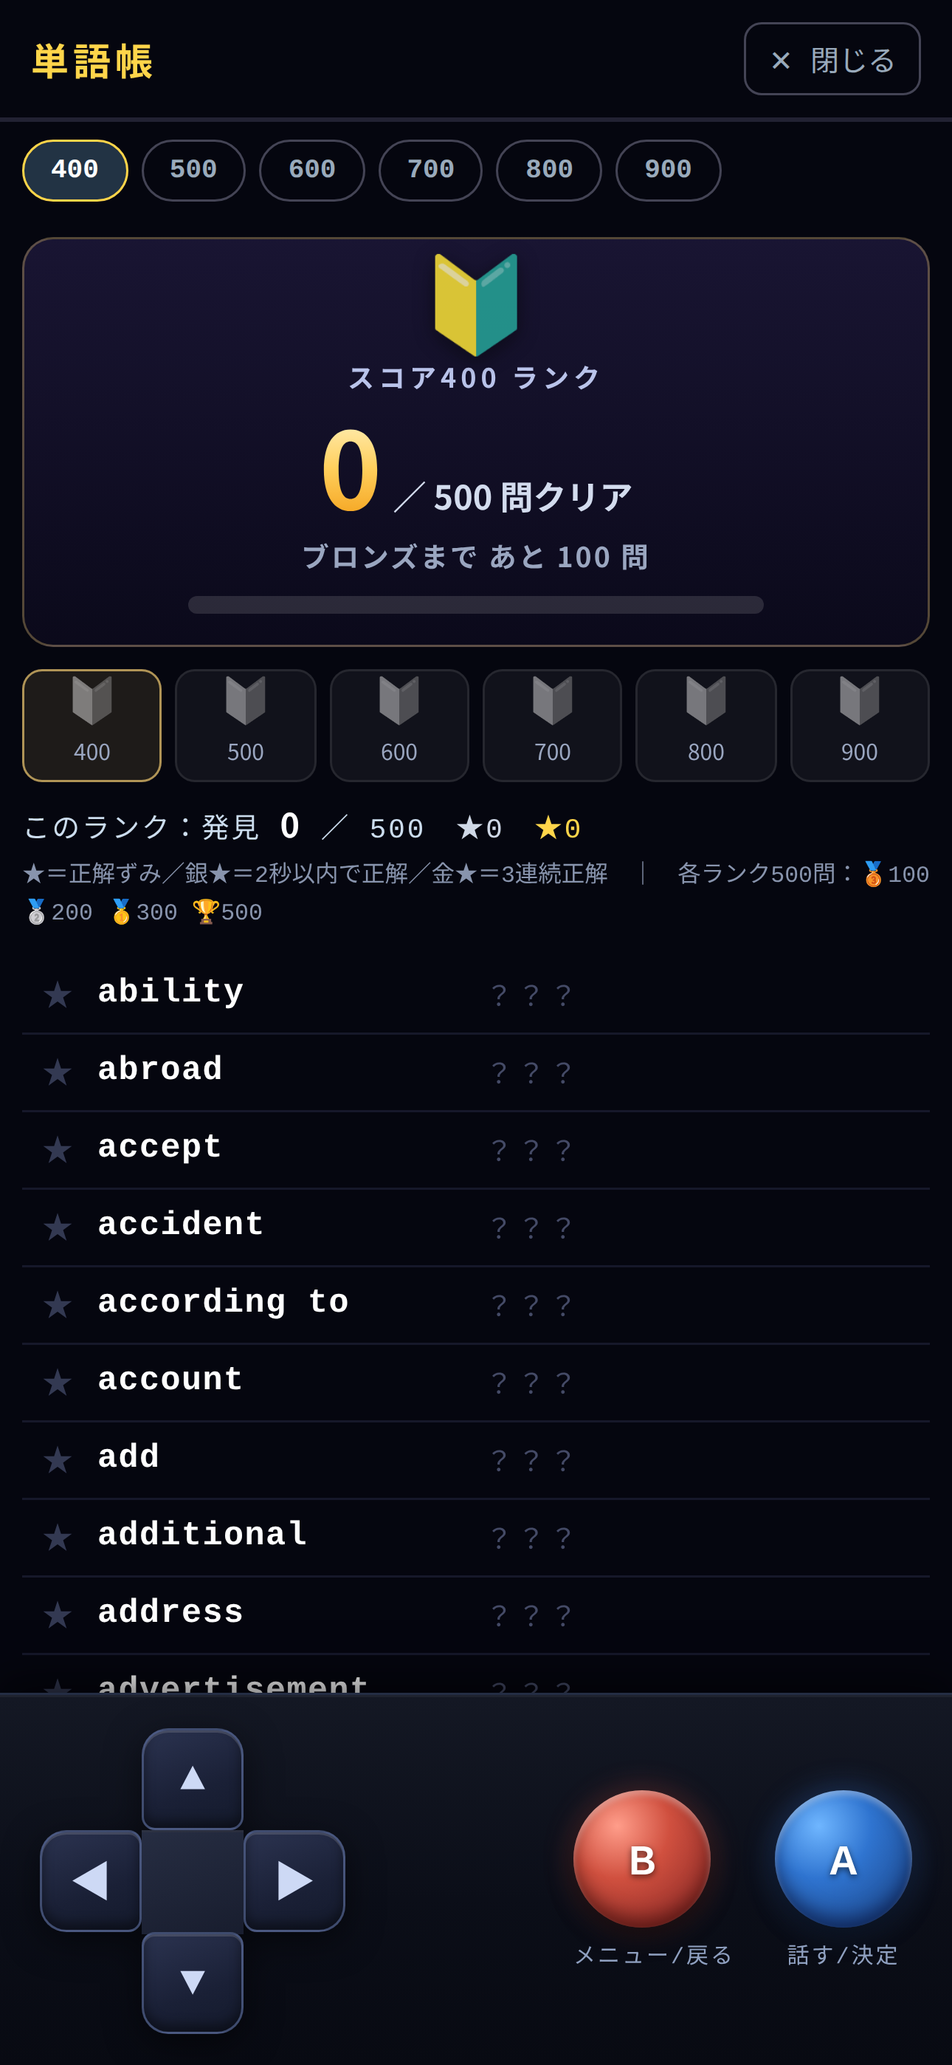
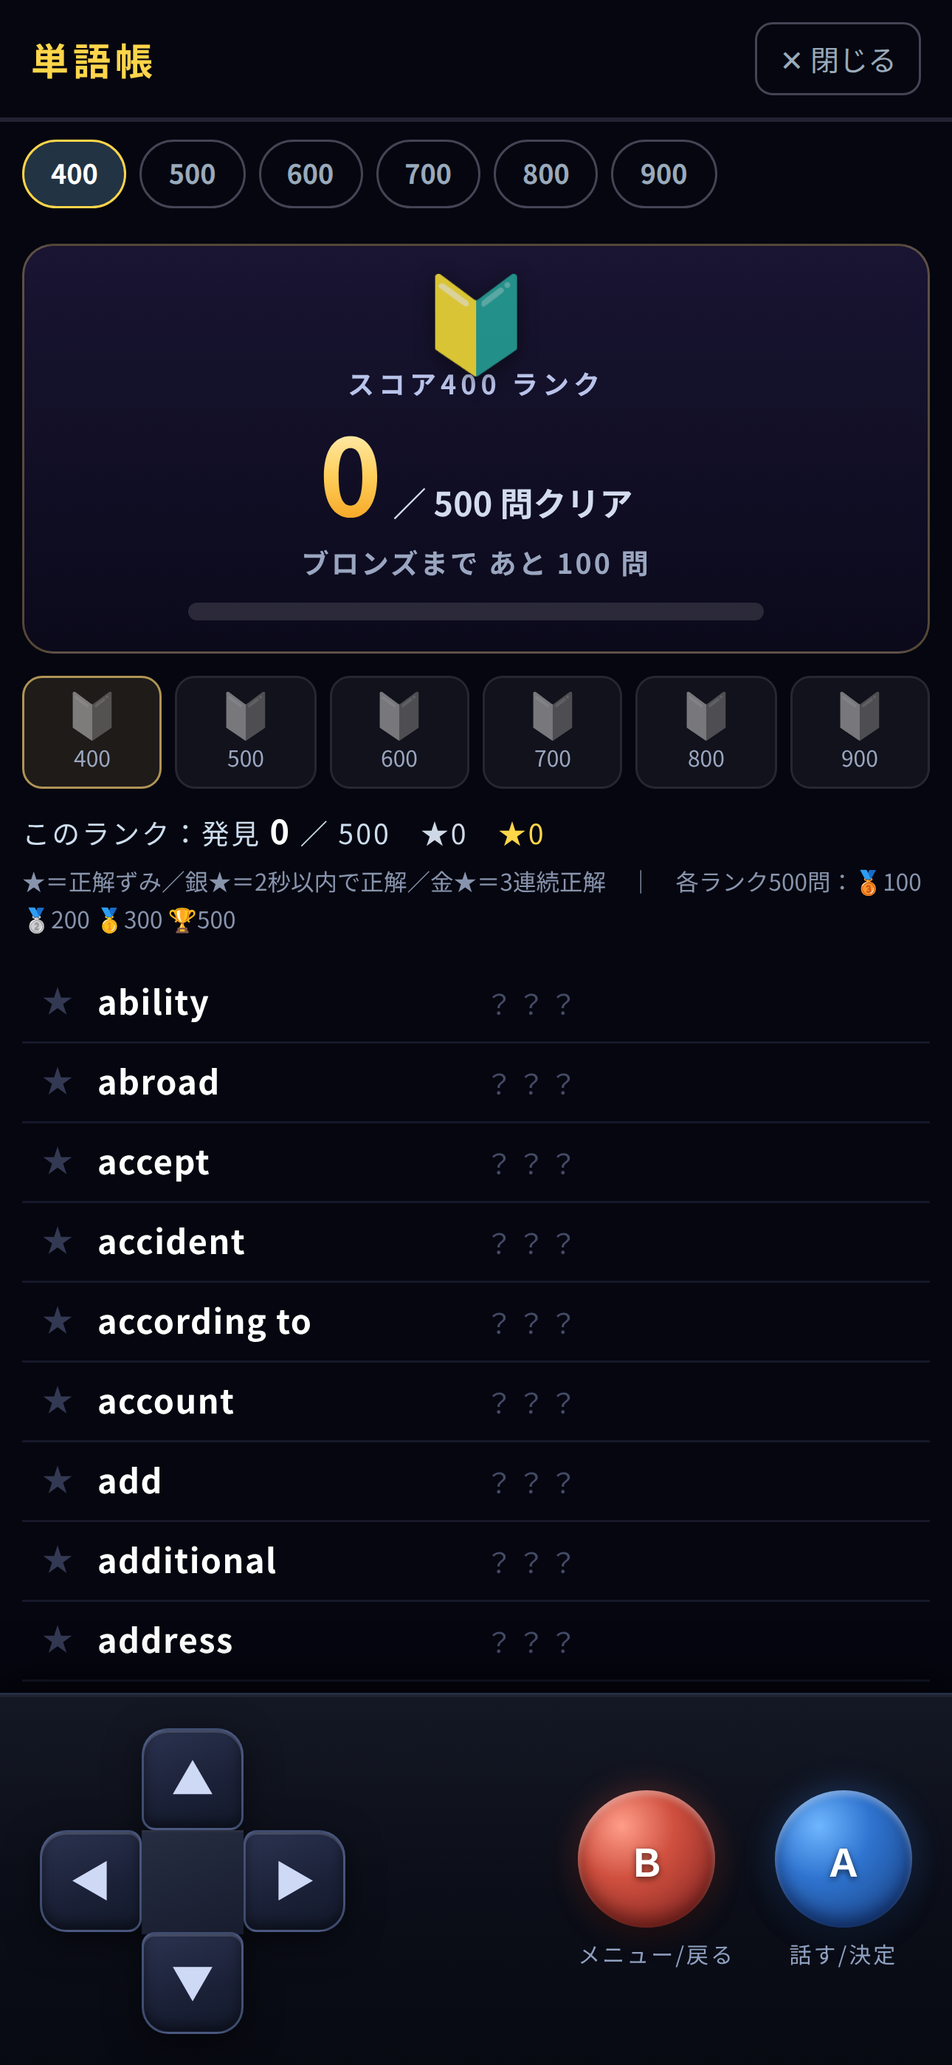
広告と記録の修正、iOS先行リリースの手順書
広告
- 全画面広告を第3・5・7・9・11戦の前に（＝第2・4・6・8・10戦を終えた直後）。
  序盤2戦は広告なしで通す。実測 1:－ 2:－ 3:広告 4:－ 5:広告 …
- 画面下に出しっぱなしのバナーを追加。操作ボタンに重ならないよう、
  読み込まれた実寸ぶんだけ #app の下に余白を作る（--wq-banner）。
  高さは端末と広告で変わるので決め打ちせず SizeChanged を待つ。
  実測 ボタンA下端820 / バナー上端882 で重なりなし
- Web版は同じ高さの枠を「広告（デモ）」として描き、레이レイアウトへの影響を
  プレビューで確かめられるようにした
- プレミアムになったらバナーを消す

記録の表示（学生モードで壊れていた）
- 称号の欄と単語帳のタブを、出題の6段階ではなく語彙のまとまりで作る。
  学生版は1つの段階に複数学年を混ぜているため、段階ごとに数えると
  同じ学年名の欄が並び（中2/中2/中3/中3/中3/中3）、数も中身とずれていた
- 修正後 中3モード：中1 3/600 ／ 中2 6/600 ／ 中3 9/645
        高2モード：中3 ／ 高校基礎 ／ 大学入試
        TOEIC は従来どおり 400〜900

その他
- ストア用スクリーンショットを新UIで撮り直し、学生モードとサブスク画面を追加（7枚）
- docs/IOS_RELEASE.md を追加。iOS先行の手順一式

★未設定：バナーのユニットIDもテスト用。インタースティシャルと合わせて2つ必要

Claude-Session: https://claude.ai/code/session_01FnVhb4STeLenZzKBowdTQv

diff --git a/party/js/pnative.js b/party/js/pnative.js
@@ -18,6 +18,10 @@
     //   差し替えないまま testing:false にすると広告収益が発生しない。
     interstitialAndroid: "ca-app-pub-3940256099942544/1033173712", // Google テスト用
     interstitialIos:     "ca-app-pub-3940256099942544/4411468910", // Google テスト用
+    // ★★ 未設定：画面下に出しっぱなしにするバナーのユニットID。
+    //   これも「バナー」という別の広告枠なので、上の2つとは別に作る必要がある
+    bannerAndroid: "ca-app-pub-3940256099942544/6300978111", // Google テスト用
+    bannerIos:     "ca-app-pub-3940256099942544/2934735716", // Google テスト用
     // ★ アプリ内課金：プレミアム（月額¥500・自動更新サブスク）
     //   両ストアで同じIDで登録すること。Google Play では基本プラン（月額）を
     //   この商品の下に作る
@@ -35,6 +39,7 @@
   var platform = cap.getPlatform ? cap.getPlatform() : "android";
   var rewardedId = platform === "ios" ? CONFIG.rewardedIos : CONFIG.rewardedAndroid;
   var interstitialId = platform === "ios" ? CONFIG.interstitialIos : CONFIG.interstitialAndroid;
+  var bannerId = platform === "ios" ? CONFIG.bannerIos : CONFIG.bannerAndroid;
 
   // ---------- AdMob rewarded (@capacitor-community/admob) ----------
   var AdMob = cap.Plugins && cap.Plugins.AdMob;
@@ -80,6 +85,33 @@
     AdMob.addListener("interstitialAdDismissed", interDone);
     AdMob.addListener("interstitialAdFailedToShow", interDone);
     AdMob.addListener("interstitialAdFailedToLoad", function () { interReady = false; setTimeout(prepareInter, 30000); });
+
+    // ---------- banner (free tier: pinned to the bottom) ----------
+    // 操作ボタンに重ならないよう、読み込まれた実寸だけ #app の下に余白を作る。
+    // 高さは端末と広告で変わるので、決め打ちせず SizeChanged を待つ。
+    AdMob.addListener("bannerAdSizeChanged", function (size) {
+      var h = (size && size.height) || 0;
+      document.documentElement.style.setProperty("--wq-banner", h > 0 ? h + "px" : "0px");
+    });
+
+    window.WQ2_STORE.showBanner = function () {
+      if (window.WQ2_STORE.isPremium && window.WQ2_STORE.isPremium()) return;
+      AdMob.showBanner({
+        adId: bannerId,
+        adSize: "ADAPTIVE_BANNER",
+        position: "BOTTOM_CENTER",
+        margin: 0,
+        isTesting: CONFIG.testing,
+        npa: CONFIG.nonPersonalized
+      }).catch(function () {
+        document.documentElement.style.setProperty("--wq-banner", "0px");
+      });
+    };
+    window.WQ2_STORE.hideBanner = function () {
+      document.documentElement.style.setProperty("--wq-banner", "0px");
+      if (AdMob.removeBanner) AdMob.removeBanner().catch(function () {});
+      else if (AdMob.hideBanner) AdMob.hideBanner().catch(function () {});
+    };
 
     window.WQ2_STORE.showInterstitial = function (cb) {
       // nothing loaded (offline, no fill, first battle after launch): do not

diff --git a/party/js/pstore.js b/party/js/pstore.js
@@ -13,6 +13,7 @@
   var MAX = 1;        // 無料の1日あたり挑戦回数（スタミナ）
   var AD_REFILL = 1;  // リワード広告1回で回復するスタミナ
   var AD_EVERY = 2;   // 無料版で全画面広告を出す間隔（何戦ごとか）
+  var BANNER_H = 50;  // 下部バナーの高さ。実機では読み込み後の実寸に差し替える
   var PRICE = "¥500";
   // grace period after the cached expiry before premium is dropped, so a
   // renewal that has not been observed yet (offline, slow receipt refresh)
@@ -122,6 +123,7 @@
       state.premium = !!active;
       state.premiumUntil = active ? (untilMs || 0) : 0;
       save();
+      if (premiumActive()) api.hideBanner(); else api.showBanner();
     },
 
     // daily review reward: +1 stamina, once per day (premium doesn't need it)
@@ -142,6 +144,25 @@
     // fires straight away and the battle starts as normal.
     showInterstitial: function (cb) { adScreen("広告").then(function () { cb(); }); },
 
+    // 画面下に出しっぱなしにするバナー。操作ボタンに重ならないよう、
+    // 高さぶんだけ #app の下に余白を作って、そこへ表示する。
+    // NATIVE OVERRIDES THIS（実機はネイティブのビューが重なる）。
+    // Web版は同じ高さの枠を描いて、レイアウトへの影響を確かめられるようにする。
+    showBanner: function () {
+      if (premiumActive()) return;
+      document.documentElement.style.setProperty("--wq-banner", BANNER_H + "px");
+      if (document.getElementById("wq2-banner")) return;
+      var el = document.createElement("div");
+      el.id = "wq2-banner";
+      el.textContent = "広告（デモ）";
+      document.body.appendChild(el);
+    },
+    hideBanner: function () {
+      document.documentElement.style.setProperty("--wq-banner", "0px");
+      var el = document.getElementById("wq2-banner");
+      if (el) el.remove();
+    },
+
     // Called by the battle engine before every encounter. Shows a full-screen ad
     // once every AD_EVERY battles — the first battle starts straight away, then
     // one before every second battle after that. The counter is persisted so
@@ -152,7 +173,9 @@
       // never stack an interstitial straight after a rewarded revive
       if (skipNextAd) { skipNextAd = false; save(); return Promise.resolve(); }
       save();
-      if (state.battles % AD_EVERY !== 0) return Promise.resolve();
+      // 第3・5・7・9・11戦の前＝第2・4・6・8・10戦を終えた直後に出す。
+      // 序盤2戦は広告なしで通す（最初の数分で離脱されると課金導線に乗らない）
+      if (state.battles <= AD_EVERY || (state.battles - 1) % AD_EVERY !== 0) return Promise.resolve();
       return new Promise(function (r) { api.showInterstitial(function () { r(); }); });
     },
 

diff --git a/party/js/pmain.js b/party/js/pmain.js
@@ -556,24 +556,28 @@
   // ---- 称号・記録 (achievements) ----
   function showAchievements() {
     var rc = loadRec(), pg = window.studyProgress(), words = (window.G.study && window.G.study.words) || {};
-    var perBand = { 400: 0, 500: 0, 600: 0, 700: 0, 800: 0, 900: 0 };
     var gold = 0, fast = 0;
     for (var k in words) {
       var r = words[k];
       if (!r) continue;
-      if (r.c > 0 && perBand[r.l] != null) perBand[r.l]++;
       if (r.g) gold++;
       if (r.f) fast++;
     }
     var streak = 0;
     try { var s = JSON.parse(localStorage.getItem("wq2_streak") || "{}"); if (s.last === dayKey(0) || s.last === dayKey(-1)) streak = s.n || 0; } catch (e) {}
     var tr = window.trophyFor(pg.cleared);
-    var medals = [400, 500, 600, 700, 800, 900].map(function (b) {
-      var t = window.trophyFor(perBand[b]);
-      var nm = window.WQ2_MODE ? WQ2_MODE.bandName(b) : String(b);
-      var sz = window.WQ2_MODE ? WQ2_MODE.bandSize(b) : 500;
+    // 出題の段階ではなく語彙のまとまりで数える。学生版は1つの段階に
+    // 複数学年が混ざるので、段階ごとに数えると同じ学年名が並んでしまう
+    var gs = (window.WQ2_MODE && WQ2_MODE.groups) ? WQ2_MODE.groups() : [];
+    var medals = gs.map(function (g) {
+      var n = 0;
+      for (var i = 0; i < g.words.length; i++) {
+        var rec = words[g.words[i].w];
+        if (rec && rec.c > 0) n++;
+      }
+      var t = window.trophyFor(n);
       return '<div class="achv-medal ' + t.cls + '"><div class="achv-ic">' + (t.icon || "🔒") + '</div>' +
-        '<div class="achv-lv">' + nm + '</div><div class="achv-n">' + perBand[b] + '/' + (sz || 500) + '</div></div>';
+        '<div class="achv-lv">' + g.name + '</div><div class="achv-n">' + n + '/' + g.words.length + '</div></div>';
     }).join("");
     var rows = [
       ["📚 覚えた単語", pg.cleared + " / " + pg.total + " 語"],
@@ -810,6 +814,8 @@
   refreshTowerBtn();
   refreshModeBtn();
   refreshVoiceBtn();
+  // 無料版だけ。プレミアムなら showBanner が自分で何もしない
+  if (window.WQ2_STORE && WQ2_STORE.showBanner) WQ2_STORE.showBanner();
 
   // Opening: browsers block audio until a user gesture, and the first tap is
   // usually a menu button that jumps straight into battle — so the title theme

diff --git a/party/js/pvocab.js b/party/js/pvocab.js
@@ -75,6 +75,11 @@
     if (raw && raw.mode) { state = raw; chosen = true; }
   } catch (e) {}
 
+  // 単語帳と称号の「まとまり」。出題の6段階とは別物にする。
+  // 学生版は1つの段階に複数学年が混ざるので、段階ごとに数えると
+  // 同じ学年名の欄が並び、数も中身とずれる（実際にそうなっていた）。
+  // 見せるときは語彙のプール（中1/中2/中3）で数える。
+  var groups = [];     // [{ name, words }]
   var bandName = {};   // 400..900 -> 表示名（その段階で主役になる学年）
   var bandTotal = {};  // 400..900 -> 主役の学年の語数（称号の分母）
   var allWords = 0;    // その出題範囲で出うる単語の総数（重複なし）
@@ -82,7 +87,7 @@
   function apply() {
     window.VOCAB = window.VOCAB || {};
     window.VOCAB_W = window.VOCAB_W || {};
-    bandName = {}; bandTotal = {}; allWords = 0;
+    bandName = {}; bandTotal = {}; allWords = 0; groups = [];
 
     if (state.mode === "student") {
       var g = gradeById(state.grade) || GRADES[2];
@@ -108,6 +113,7 @@
       });
       pools.forEach(function (key) {
         POOL[key].get().forEach(function (e) { if (!seen[e.w]) { seen[e.w] = 1; allWords++; } });
+        groups.push({ name: POOL[key].name, words: POOL[key].get() });
       });
     } else {
       BANDS.forEach(function (b) {
@@ -116,6 +122,7 @@
         bandName[b] = "スコア" + b;
         bandTotal[b] = (TOEIC[b] || []).length;
         allWords += (TOEIC[b] || []).length;
+        groups.push({ name: String(b), words: TOEIC[b] || [] });
       });
     }
     // 出題語が変わるので、この周回の「出題済み」記録は捨てる
@@ -214,6 +221,7 @@
     label: label,
     bandName: function (lv) { return bandName[lv] || String(lv); },
     bandSize: function (lv) { return bandTotal[lv] || 0; },
+    groups: function () { return groups; },
     totalWords: function () { return allWords; },
     studyKey: studyKey,
     open: open

diff --git a/party/js/pfield.js b/party/js/pfield.js
@@ -975,7 +975,7 @@
   }
 
   // ---------- 単語帳 (word encyclopedia, ported from game 1) ----------
-  var zukanBand = 400;
+  var zukanBand = 0;   // 単語帳のタブ位置（WQ2_MODE.groups() のインデックス）
   function starOf(r) {
     if (!r || !r.c) return "none";
     if (r.g) return "gold";
@@ -985,16 +985,23 @@
   function renderZukan() {
     var study = (window.G && window.G.study) || {};
     var words = study.words || {};
+    // タブは出題の6段階ではなく語彙のまとまり。学生版は1つの段階に複数学年が
+    // 混ざるので、段階でタブを作ると中身が重複し、数字も意味を持たない
+    var gs = (window.WQ2_MODE && WQ2_MODE.groups) ? WQ2_MODE.groups() : [];
+    if (!gs.length) gs = [400, 500, 600, 700, 800, 900].map(function (b) {
+      return { name: String(b), words: window.VOCAB[b] || [] };
+    });
+    if (zukanBand >= gs.length) zukanBand = 0;
     var tabs = $("zukan-tabs");
     tabs.innerHTML = "";
-    [400, 500, 600, 700, 800, 900].forEach(function (b) {
+    gs.forEach(function (g, i) {
       var t = document.createElement("div");
-      t.className = "ztab" + (b === zukanBand ? " on" : "");
-      t.textContent = b;
-      t.onpointerdown = function (e) { e.preventDefault(); zukanBand = b; renderZukan(); };
+      t.className = "ztab" + (i === zukanBand ? " on" : "");
+      t.textContent = g.name;
+      t.onpointerdown = function (e) { e.preventDefault(); zukanBand = i; renderZukan(); };
       tabs.appendChild(t);
     });
-    var pool = (window.VOCAB[zukanBand] || []).slice().sort(function (a, b) { return a.w < b.w ? -1 : 1; });
+    var pool = gs[zukanBand].words.slice().sort(function (a, b) { return a.w < b.w ? -1 : 1; });
     var nB = 0, nS = 0, nG = 0, weakN = 0;
     var rows = pool.map(function (e) {
       var r = words[e.w];

diff --git a/css/style.css b/css/style.css
@@ -520,3 +520,15 @@ canvas#field-canvas {
 #combo-badge .cm { display: block; font-size: 11px; color: #ffab5c; margin-top: 1px; }
 #combo-badge.bump { animation: combobump .3s; }
 @keyframes combobump { 40% { transform: scale(1.35); } }
+
+/* 下部バナー広告のぶんだけ画面を上げる。操作ボタンに重ならないようにするため、
+   バナーの実寸が分かった時点で JS が --wq-banner を書き込む（無料版のみ） */
+:root { --wq-banner: 0px; }
+#app { padding-bottom: var(--wq-banner); }
+#wq2-banner {
+  position: fixed; left: 0; right: 0; bottom: 0; height: var(--wq-banner);
+  display: flex; align-items: center; justify-content: center;
+  font-size: 11px; letter-spacing: 2px; color: #7a839c;
+  background: #0b0e16; border-top: 1px solid rgba(120, 150, 220, .22);
+  z-index: 95; pointer-events: none;
+}

diff --git a/docs/IOS_RELEASE.md b/docs/IOS_RELEASE.md
@@ -1,0 +1,142 @@
+# iOS 先行リリース手順
+
+App Store だけ先に出す。Google Play は後から追いかける。
+2026-08-22 時点。**Apple Developer Program は登録済み。**
+
+Google Play を待たずに済む理由：Play の「12人×14日のクローズドテスト」は
+2023年11月以降に作られた**個人**アカウントの義務で、審査の待ち時間より長い。
+iOS の審査は通常24〜48時間で、この義務がない。
+
+> **D-U-N-S番号をお持ちなら、Play も組織アカウントで開けば12人×14日は対象外です。**
+> iOS を出したあと、同じビルドから短期間で追いつけます。
+
+---
+
+## いま止まっているのは1つだけ
+
+**AdMob の iOS用インタースティシャル広告ユニットID。**
+
+`party/js/pnative.js` の `interstitialIos` が Google のテスト用IDのままです。
+このまま公開すると、戦闘前の広告は1円も生みません。
+
+- AdMob管理画面 → 広告ユニット → **インタースティシャル**を iOS アプリ用に1つ作成
+- `ca-app-pub-3056251560404390/XXXXXXXXXX` の形式のIDを渡してください
+- Android用は iOS 先行なら後回しでかまいません
+
+リワード広告（スタミナ回復・復活）の iOS用IDは本番のものが入っています。
+
+---
+
+## すでに入っているもの（触らなくてよい）
+
+| | |
+|---|---|
+| Bundle ID | `com.bridgeai.wordquest` |
+| AdMob App ID (iOS) | `ca-app-pub-3056251560404390~6974212233` |
+| `GADApplicationIdentifier` | `npm run cap:sync` が Info.plist へ自動注入 |
+| `ITSAppUsesNonExemptEncryption` | `false` を自動注入。**輸出コンプライアンスの質問が毎回出なくなる** |
+| `NSUserTrackingUsageDescription` | 自動で削除。ATTを使わず非パーソナライズ広告のみのため |
+| スクリーンショット | `store/screenshots/` に5枚（1290×2796） |
+| アイコン・スプラッシュ | `appicon/`。`npm run assets` が全サイズ生成 |
+| プライバシーポリシー | https://bridge-ai-tokyo.com/wordquest/privacy.html |
+| 利用規約（EULA） | https://bridge-ai-tokyo.com/wordquest/terms.html |
+| サポートURL | https://bridge-ai-tokyo.com/support.html |
+| 掲載文 | `docs/STORE_LISTING.md` |
+
+---
+
+## 手順
+
+### 1. App Store Connect でアプリを登録
+
+- 名前：**WORD QUEST 〜 沈黙の四天王 〜**（`docs/STORE_LISTING.md`）
+- Bundle ID：`com.bridgeai.wordquest`
+- **「App情報」に利用規約URLを設定**（上記のterms.html）。サブスクを出すなら必須
+
+### 2. サブスクリプションを登録
+
+- サブスクリプショングループを作る（例：`WORD QUEST プレミアム`）
+- 製品ID **`wordquest_premium_monthly`** ／ 自動更新 ／ **月額 ¥500**
+- 表示名と説明を日本語で入れる
+- **審査用のスクリーンショット**が要る。タイトルの「★ プレミアム（月額¥500・広告オフ）」を
+  押したときの画面を撮って添付する
+- **Small Business Program に登録する。**年商1億円未満なら手数料が30%→15%。
+  申請するだけで、サブスク収入がほぼ倍になる
+
+### 3. App のプライバシー（栄養ラベル）
+
+広告を出すので申告が要る。方針は**「追跡はしない」で統一**。
+
+- **トラッキング：しない。**ATTのダイアログを出さず、非パーソナライズ広告のみで運用している
+- AdMob が広告配信・不正防止のために取得する情報は「**あなたに紐づけられないデータ**」として申告する
+  （識別子・使用状況データ・診断）
+- 位置情報・連絡先・カメラ・マイク・写真は一切使わない
+
+> 申告の内容はアプリの実装と一致していなければならず、食い違うとリジェクトされます。
+> 迷ったら送る前に相談してください。
+
+### 4. 年齢制限
+
+広告を含むので、アンケートで「**第三者の広告**」を含むと答える。
+暴力表現は戦闘のみで、レーティングは低く出るはずです。
+
+### 5. Mac でビルド
+
+```bash
+git pull
+npm install          # 初回のみ
+npm run build:www    # 78.2MB になれば成功
+npx cap add ios      # 初回のみ
+npm run assets       # 初回のみ。アイコンとスプラッシュを全サイズ生成
+npm run cap:sync     # www を同期 ＋ AdMob の App ID を注入
+npm run open:ios
+```
+
+Xcode が開いたら：
+
+1. 左のツリーで **App** → **Signing & Capabilities** → **Team** に Apple Developer アカウントを選ぶ
+2. Bundle Identifier が `com.bridgeai.wordquest` か確認
+3. 上部のデバイス選択を **Any iOS Device (arm64)** にする
+4. **Product → Archive**（5〜10分）
+5. Organizer → **Distribute App → App Store Connect → Upload**
+
+`(base)` が出る環境なら、先に `conda config --set auto_activate_base false`。
+Anaconda の curl を掴んで `pod install` が `libssl.3.dylib` で失敗します。
+
+### 6. TestFlight で実機確認
+
+**ここでしか確かめられないもの：**
+
+- [ ] 読み上げ音声が **2問目以降も鳴り続ける**（iOSで一番壊れやすい）
+- [ ] 🗣 をオフにすると本当に鳴らない
+- [ ] 戦闘前の広告が2戦ごとに出る
+- [ ] 全滅→広告→復活で、敵のHPが半分ぶん残っている
+- [ ] OPムービーが初回起動で流れ、スキップできる
+- [ ] マナースイッチをオンにすると音が出ない（iOSの仕様どおり）
+
+### 7. 提出
+
+**提出用ビルドの直前に `testing: false` へ切り替えます。**言ってください、5分です。
+
+```
+TestFlight まで   testing: true   ← 自分でタップしても安全
+提出するビルド     testing: false  ← 本番広告
+```
+
+**順番を逆にしないでください。**テスト中に本番広告を自分で何度もタップすると、
+AdMob が不正トラフィックと判定してアカウントごと停止されます。
+
+---
+
+## 想定スケジュール
+
+| | |
+|---|---|
+| AdMob の iOS用インタースティシャル作成 | 10分 |
+| App Store Connect の登録＋サブスク＋申告 | 1〜2時間 |
+| Mac でビルド → アップロード | 初回1〜2時間 |
+| TestFlight に現れるまで | 15〜30分 |
+| 実機確認 | 任意 |
+| 審査 | 通常24〜48時間 |
+
+**最短で数日。**Google Play の2週間を待つ必要はありません。
